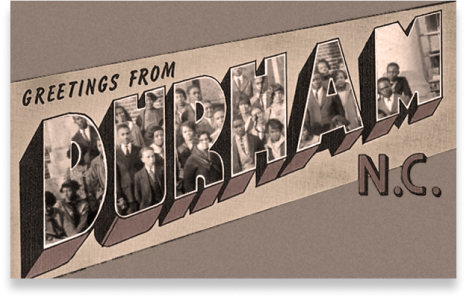
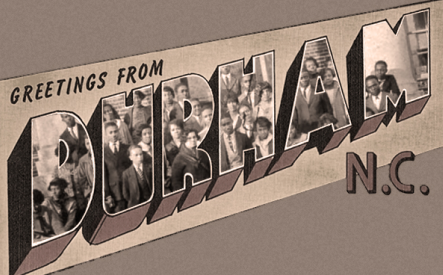
postcardbegin

diff --git a/ThreeBlackWallStreets/src/script.js b/ThreeBlackWallStreets/src/script.js
@@ -3,6 +3,23 @@ import * as THREE from 'three'
 import { OrbitControls } from 'three/examples/jsm/controls/OrbitControls.js'
 import { GLTFLoader } from 'three/examples/jsm/loaders/GLTFLoader.js'
 import { gsap } from 'gsap'
+import * as dat from 'dat.gui'
+
+const params = {
+    exposure: 1.0,
+    toneMapping: 'ACESFilmic'
+};
+
+const toneMappingOptions = {
+    None: THREE.NoToneMapping,
+    Linear: THREE.LinearToneMapping,
+    Reinhard: THREE.ReinhardToneMapping,
+    Cineon: THREE.CineonToneMapping,
+    ACESFilmic: THREE.ACESFilmicToneMapping,
+};
+
+const gui = new dat.GUI()
+let guiExposure = null
 
 /**
  * Loaders
@@ -124,7 +141,7 @@ const postcardDurhamMesh = new THREE.Mesh( postcardGeometry, postcardDurhamColor
 scene.add(postcardDurhamMesh)
 
 
-scene.background = new THREE.Color( 0xffffff )
+scene.background = new THREE.Color( 0x404040 )
 /**
  * 
  * Update all materials
@@ -189,7 +206,7 @@ directionalLight.shadow.normalBias = 0.05
 directionalLight.position.set(0.25, 3, - 2.25)
 scene.add(directionalLight)
 
-const ambientLight = new THREE.AmbientLight(0x404040, 2.0)
+const ambientLight = new THREE.AmbientLight(0xffffff, 2.0)
 // gui.add(ambientLight, 'intensity').min(0).max(1).step(0.001)
 scene.add(ambientLight)
 
@@ -275,14 +292,28 @@ const renderer = new THREE.WebGLRenderer({
 })
 renderer.physicallyCorrectLights = true
 renderer.outputEncoding = THREE.sRGBEncoding
-renderer.toneMapping = THREE.ReinhardToneMapping
-renderer.toneMappingExposure = 3
+renderer.toneMapping = THREE.LinearToneMapping
+renderer.toneMappingExposure = 1.3
 renderer.shadowMap.enabled = true
 renderer.shadowMap.type = THREE.PCFSoftShadowMap
 renderer.setSize(sizes.width, sizes.height)
 renderer.setPixelRatio(Math.min(window.devicePixelRatio, 2))
 
 let currentIntersects = null
+
+// gui.add( params, 'toneMapping', Object.keys( toneMappingOptions )).onChange( function () {
+
+//                 updateGUI();
+
+//                 renderer.toneMapping = toneMappingOptions[ params.toneMapping ];
+//                 postcardDurhamMesh.material.needsUpdate = true;
+//                 renderer.render(scene, camera);
+
+//             } );
+
+//             updateGUI();
+
+//             gui.open();
 
 /**
  * Animate
@@ -295,7 +326,7 @@ const tick = () =>
     raycaster.setFromCamera(mouse, camera)
 
 
-    const objectsToTest = [  ]
+    const objectsToTest = [ postcardDurhamMesh ]
     const intersects = raycaster.intersectObjects(objectsToTest)
 
     // pin.rotation.y +=  0.001
@@ -315,12 +346,14 @@ const tick = () =>
     if(intersects.length){
         if(currentIntersects === null){
             console.log('in');
+            postcardDurhamMesh.material= postcardDurhamBWMaterial
         }
         currentIntersects = intersects[0]
        //console.log(intersects.object);
     } else {
         if(currentIntersects){
             console.log('out');
+            postcardDurhamMesh.material= postcardDurhamColorMaterial
         }
         currentIntersects = null
     }
@@ -331,5 +364,20 @@ const tick = () =>
     // Call tick again on the next frame
     window.requestAnimationFrame(tick)
 }
+
+// function updateGUI() {
+
+//     if ( guiExposure !== null ) {
+//         gui.remove( guiExposure );
+//         guiExposure = null;
+//     }
+//     if ( params.toneMapping !== 'None' ) {
+//         guiExposure = gui.add( params, 'exposure', 0, 2 ).onChange( function () {
+//                 renderer.toneMappingExposure = params.exposure;
+//                 renderer.render(scene, camera)
+
+//             } );
+//     }
+// }
 
 tick()
